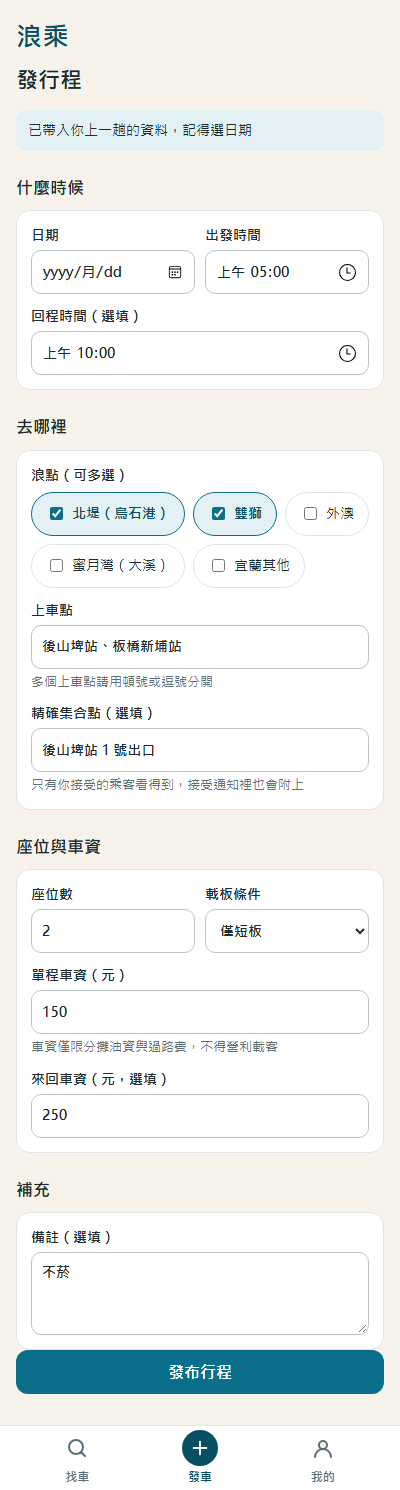
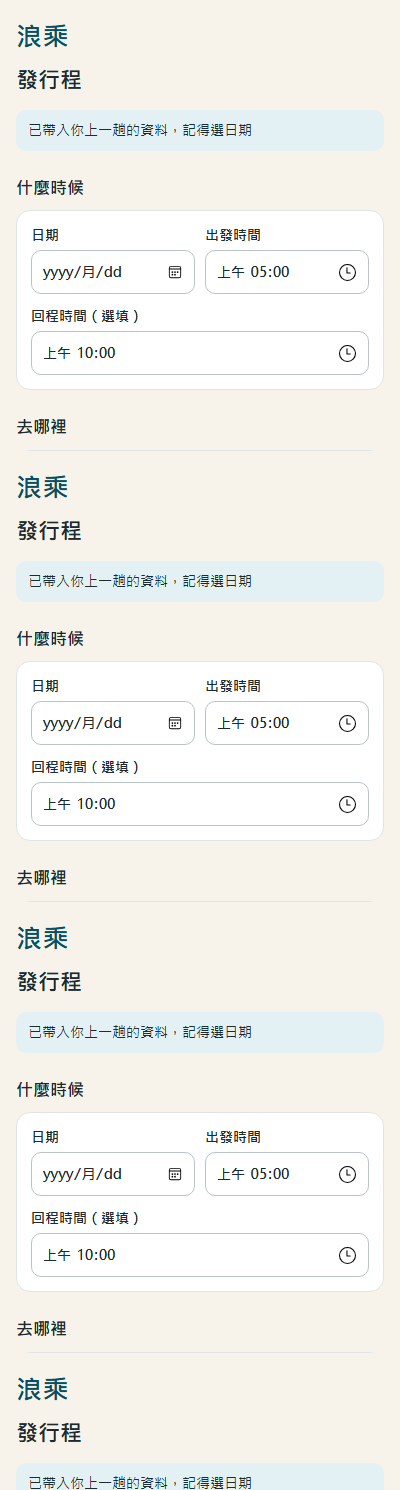
Require a phone number or LINE ID as contact (PR-CONTACT-03)
Any non-blank text used to pass, so "私訊我" could be saved as a contact.
setContact now accepts a mobile number (09 + 8 digits, spaces or hyphens
allowed) or a LINE ID (4-20 letters, digits, . _ -, optional @). Input
made only of digits is checked as a phone, so a mistyped number is not
stored as a LINE ID. The rule was added to Issue #1 as PR-CONTACT-03.

Test fixtures used `line-${name}` / `${name}-line` with Chinese names,
which are no longer valid; they now use line-userN. No assertions were
changed. New UAT case TC-CONTACT-06 is automated in npm run uat.

npm test: 50 pass. UAT run A: 49 pass, 4 partial, 0 fail.

diff --git a/test/requests.test.js b/test/requests.test.js
@@ -117,6 +117,28 @@ test('PR-CONTACT-01 沒填聯絡方式不能發行程或申請', async (t) => {
   assert.equal(request.body.error, 'contact_required');
 });
 
+test('PR-CONTACT-03 聯絡方式須為手機號碼或 LINE ID', async (t) => {
+  const { client } = await startApp(t);
+  const c = client();
+  await c.post('/auth/dev', { name: '填聯絡方式的人' });
+  const save = (contact) => c.put('/api/me', { contact });
+
+  for (const ok of ['0912345678', '0912-345-678', '0912 345 678', 'akai_surf', 'akai.line-2', '@akai', 'AKAI99']) {
+    const res = await save(ok);
+    assert.equal(res.status, 200, `應該接受：${ok}`);
+    assert.equal(res.body.user.contact, ok);
+  }
+  // 純數字一律當電話看：不是 09 開頭 10 碼就擋，避免把打錯的電話當成 LINE ID 存起來
+  for (const bad of ['私訊我', '你好 akai', 'abc', 'a'.repeat(21), '12345', '091234567', '09123456789', 'akai line', 'akai#1']) {
+    const res = await save(bad);
+    assert.equal(res.status, 400, `應該擋下：${bad}`);
+    assert.deepEqual(res.body.fields, ['contact']);
+    assert.match(res.body.message, /LINE ID 或手機號碼/);
+  }
+  // 被擋下時不能蓋掉原本存好的聯絡方式
+  assert.equal((await c.get('/api/me')).body.user.contact, 'AKAI99');
+});
+
 test('PR-CONTACT-02 聯絡方式只在接受後顯示給該司機與該乘客', async (t) => {
   const { user, driver, client, tripId } = await setup(t);
   const a = await user('乘客A', 'a-line');

diff --git a/src/service.js b/src/service.js
@@ -32,6 +32,13 @@ const isTime = (v) => typeof v === 'string' && /^([01]\d|2[0-3]):[0-5]\d$/.test(
 const isBlank = (v) => v === undefined || v === null || v === '';
 const isFare = (v) => Number.isInteger(v) && v >= 0 && v <= 5000;
 
+// PR-CONTACT-03：手機號碼（09 開頭 10 碼，可含空格或連字號）或 LINE ID（4～20 字英數與 . _ -，可加 @ 前綴）。
+// 只由數字、空格、連字號組成的一律當電話檢查，打錯的電話才不會被當成 LINE ID 存起來
+function isContact(v) {
+  if (/^[\d\s-]+$/.test(v)) return /^09\d{8}$/.test(v.replace(/[\s-]/g, ''));
+  return /^@?[A-Za-z0-9._-]{4,20}$/.test(v);
+}
+
 // Date.parse 會把 02-31 默默進位成三月，所以要轉回來比對
 function isDate(v) {
   if (typeof v !== 'string' || !/^\d{4}-\d{2}-\d{2}$/.test(v)) return false;
@@ -120,6 +127,9 @@ export function createService(db, { now = () => Date.now() } = {}) {
     setContact(user, contact) {
       const value = typeof contact === 'string' ? contact.trim().slice(0, 60) : '';
       if (!value) throw new DomainError(400, 'invalid', '請填寫聯絡方式', ['contact']);
+      if (!isContact(value)) {
+        throw new DomainError(400, 'invalid', '聯絡方式格式不對，請填 LINE ID 或手機號碼', ['contact']);
+      }
       db.prepare('UPDATE users SET contact = ? WHERE id = ?').run(value, user.id);
       return getUser(user.id);
     },

diff --git a/test/helpers.js b/test/helpers.js
@@ -81,8 +81,9 @@ export async function startApp(t, { line: lineOverrides = {}, devLogin = true } 
     };
   };
 
-  // 建立已登入、已填聯絡方式的用戶
-  const user = async (name, contact = `line-${name}`) => {
+  // 建立已登入、已填聯絡方式的用戶。預設聯絡方式要符合 PR-CONTACT-03 的 LINE ID 格式（名字可能是中文，不能直接拿來用）
+  let userSeq = 0;
+  const user = async (name, contact = `line-user${++userSeq}`) => {
     const c = client();
     await c.post('/auth/dev', { name });
     if (contact) await c.put('/api/me', { contact });

diff --git a/docs/uat/report-2026-11-19-run-A.md b/docs/uat/report-2026-11-19-run-A.md
@@ -4,7 +4,7 @@
 - **方式**：無頭 Edge＋Chrome DevTools Protocol 實際操作畫面（點按鈕、填表單），手機尺寸 400px 寬
 - **環境**：環境 L（`DEV_LOGIN=1`），獨立測試伺服器 `localhost:3011`、每個場景一個全新資料庫；推播 token 清空，推播文字只印在伺服器 log、沒有送出真推播
 - **角色**：每個角色一個獨立瀏覽器環境（cookie 不共用）
-- **結果**：✅ 47 通過　⚠ 4 部分　❌ 0 失敗
+- **結果**：✅ 49 通過　⚠ 4 部分　❌ 0 失敗
 
 > 截圖是每個案例最後一步的畫面，標示是誰的視角。
 
@@ -52,6 +52,8 @@
 | [TC-CONTACT-02](#tc-contact-02) | 沒填聯絡方式時申請要先填 | ✅ 通過 |
 | [TC-CONTACT-03](#tc-contact-03) | 聯絡方式留空無法儲存 | ✅ 通過 |
 | [TC-CONTACT-02b](#tc-contact-02b) | （接續）填完儲存後出現申請表單 | ✅ 通過 |
+| [TC-CONTACT-06](#tc-contact-06) | 聯絡方式要是手機號碼或 LINE ID（格式錯誤被擋） | ✅ 通過 |
+| [TC-CONTACT-06b](#tc-contact-06b) | （接續）填手機號碼 0912-345-678 儲存成功 | ✅ 通過 |
 | [TC-REQ-08](#tc-req-08) | 坐滿後接受第二筆被擋 | ✅ 通過 |
 | [TC-FIND-07](#tc-find-07) | 坐滿的行程標示已滿且不能申請 | ✅ 通過 |
 | [TC-REQ-09](#tc-req-09) | 乘客在「我的」看到申請狀態 | ✅ 通過 |
@@ -495,6 +497,27 @@
 截圖（新使用者小新 的畫面）：
 
 <img src="TC-CONTACT-02b.png" width="300" alt="TC-CONTACT-02b 截圖">
+
+### TC-CONTACT-06
+
+**聯絡方式要是手機號碼或 LINE ID（格式錯誤被擋）** — ✅ 通過
+
+- **期望**：步驟 1、2 顯示「聯絡方式格式不對，請填 LINE ID 或手機號碼」，欄位被標示，仍停在聯絡方式表單；步驟 3 儲存成功，出現申請表單
+
+截圖（小石 的畫面）：
+
+<img src="TC-CONTACT-06.png" width="300" alt="TC-CONTACT-06 截圖">
+
+### TC-CONTACT-06b
+
+**（接續）填手機號碼 0912-345-678 儲存成功** — ✅ 通過
+
+- **期望**：步驟 1、2 顯示「聯絡方式格式不對，請填 LINE ID 或手機號碼」，欄位被標示，仍停在聯絡方式表單；步驟 3 儲存成功，出現申請表單
+- **備註**：補充：TC-CONTACT-06 的步驟 3，合法手機號碼儲存後出現申請表單。
+
+截圖（小石 的畫面）：
+
+<img src="TC-CONTACT-06b.png" width="300" alt="TC-CONTACT-06b 截圖">
 
 ### TC-REQ-08
 

diff --git a/docs/uat-cases.md b/docs/uat-cases.md
@@ -464,6 +464,20 @@
 - **期望結果**：三者都看不到 `akai-line`；阿凱在小浪、小沙的卡片上看不到他們的聯絡方式
 - **最近判定**：未判
 
+## TC-CONTACT-06 — 聯絡方式要是手機號碼或 LINE ID
+
+- **狀態**：active
+- **負責人**：ChristingChang
+- **來源**：PR-CONTACT-03
+- **角色**：乘客
+- **前置條件**：一個剛登入、尚未填聯絡方式的帳號；阿凱發了標準行程
+- **步驟**：
+  1. 開該行程頁，在聯絡方式填「私訊我」，點「儲存」
+  2. 改填「12345」，點「儲存」
+  3. 改填「0912-345-678」，點「儲存」
+- **期望結果**：步驟 1、2 顯示「聯絡方式格式不對，請填 LINE ID 或手機號碼」，欄位被標示，仍停在聯絡方式表單；步驟 3 儲存成功，出現申請表單
+- **最近判定**：未判
+
 ## TC-NOTIFY-01 — 新申請推播給司機
 - **狀態**：active
 - **負責人**：ChristingChang
